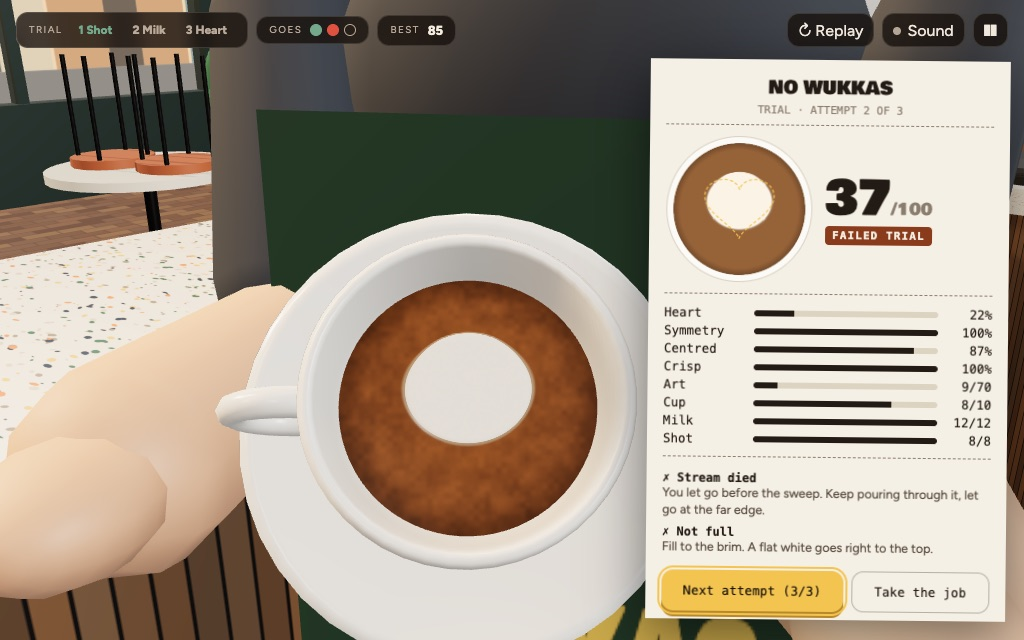
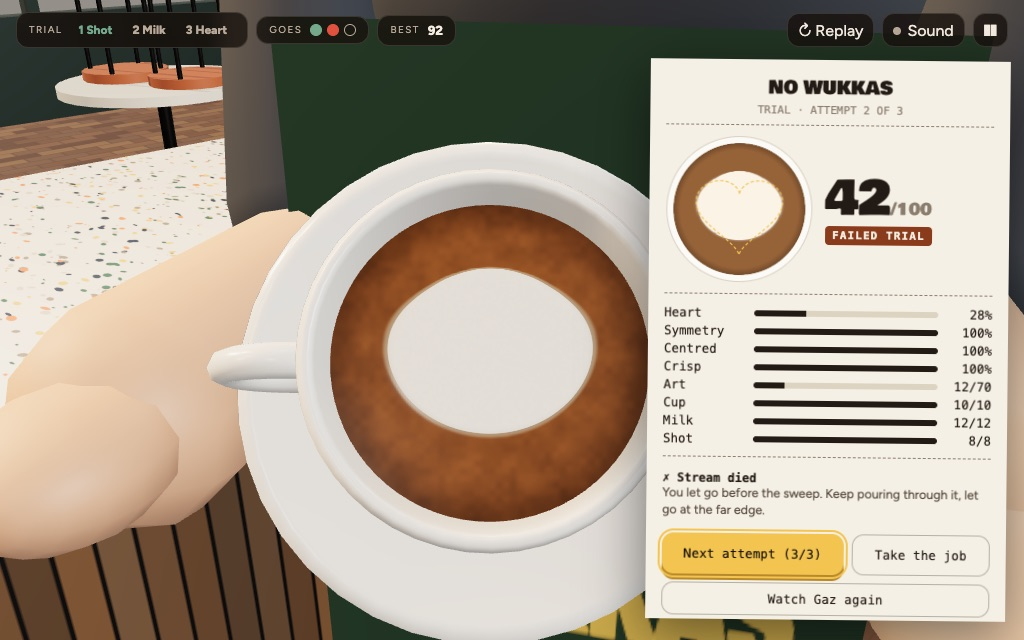
fix(lesson): "pull now" waits until the cup is as full as when Gaz starts his pull
Following only the on-screen text, Day 1's first pour scored a heart but came out underfilled
(0.74): the step-3 hint "Wide enough. Lift [2]…" fired as soon as the white covered 20% of the
surface (fill 0.71), while Gaz's demo starts its pull-through at fill 0.864. After the sweep the
cup can't be topped up, so it never reached the 0.85 "full" mark.

- demo: demoPullStart() / demoPullFill() read where OWNER_DEMO starts its pull-through (the jug
  first rising again after going low) and the cup fill then, from controlsAt and the pitcher
  (no hard-coded number; matches the full pour simulation exactly).
- coach: readyToPull(log, fill) = lobes done, not pulling yet, and fill >= demoPullFill().
- lesson: the hint fires on readyToPull and says the number: "Wide enough, cup ~85%. Lift [2],
  keep pouring and sweep forward."
- Test: a pour that follows the lesson (fill high, drop at the half-full hint, stay low, then the
  B1 held sweep from the moment the hint fires) scores faults = [] and "hired".

Hands-on repeat (Day 1, seed 7, real input via Playwright, by the text only): 92/100, hired,
faults = [] (was 85, underfilled).

diff --git a/tests/sim/latte.test.ts b/tests/sim/latte.test.ts
@@ -3,7 +3,15 @@ import { STEP } from '../../src/core/clock';
 import { artFaults, scoreAttempt } from '../../src/sim/attempt';
 import { scoreEspresso, createEspresso } from '../../src/sim/espresso';
 import { CELL, createPour, GRID, stepPour, surfacing } from '../../src/sim/latte/field';
-import { controlsAt, OWNER_DEMO, runTrack, type TrackKey } from '../../src/sim/latte/demo';
+import {
+  controlsAt,
+  demoPullFill,
+  demoPullStart,
+  OWNER_DEMO,
+  runTrack,
+  type TrackKey,
+} from '../../src/sim/latte/demo';
+import { createPourLog, readyToPull, trackPour, type PourLog } from '../../src/sim/latte/coach';
 import { heartTemplate, inHeart } from '../../src/sim/latte/heart';
 import {
   createPitcher,
@@ -261,6 +269,58 @@ describe('pull-through: the taught motion is the winning motion', () => {
     const r = pourTrack(late, 8.8);
     expect(r.faults).toContain('blob');
     expect(r.s.heartness).toBeLessThan(0.3);
+  });
+});
+
+describe('when the lesson says "pull now": as full as the cup is when Gaz starts his', () => {
+  it("is read from Gaz's demo, and matches the full pour simulation", () => {
+    const fill = demoPullFill();
+    expect(fill).toBeGreaterThan(0.84);
+    expect(fill).toBeLessThan(0.88);
+    expect(runTrack(OWNER_DEMO, SILKY_MILK, demoPullStart()).pour.fill).toBeCloseTo(fill, 9);
+  });
+
+  it('a wide white is not enough: the cup has to be that full too', () => {
+    const log = { ...createPourLog(), done: [true, true, true, false] as PourLog['done'], step: 3 };
+    expect(readyToPull(log, 0.71)).toBe(false); // Day 1 by the text, 2026-10-15: pulled here
+    expect(readyToPull(log, demoPullFill())).toBe(true);
+    expect(readyToPull({ ...log, pullStarted: true }, 0.9)).toBe(false);
+  });
+
+  it('following the lesson (drop at half full, pull when it says) ends in a heart and a full cup', () => {
+    const [HIGH, LIFT, LOW] = HEIGHT_PRESETS;
+    const pour = createPour();
+    const p = createPitcher();
+    p.y = -0.3;
+    const log = createPourLog();
+    const c = { targetX: 0, targetY: -0.3, targetHeight: HIGH as number, holding: false };
+    // The B1 held sweep, from the moment the hint fires: lift to [2], keep pouring, let go far.
+    const sweep: TrackKey[] = [
+      { t: 0, x: 0, y: -0.3, h: LOW, hold: true },
+      { t: 0.15, x: 0, y: -0.2, h: LIFT, hold: true },
+      { t: 0.6, x: 0, y: 0.85, h: LIFT, hold: false },
+      { t: 1.2, x: 0, y: 0.6, h: HIGH, hold: false },
+    ];
+    let hintAt = -1;
+    let idle = 0;
+    for (let i = 0; i < Math.round(20 / STEP); i++) {
+      const t = i * STEP;
+      if (hintAt >= 0) controlsAt(sweep, t - hintAt, c);
+      else {
+        c.holding = t >= 0.5; // "1 high … hold to pour"
+        if (log.done[0]) c.targetHeight = LOW; // "Half full. Drop right down now [3]."
+      }
+      stepPourFrame(pour, p, c, SILKY_MILK, STEP);
+      trackPour(log, pour, p);
+      if (hintAt < 0 && readyToPull(log, pour.fill) && pitcherFlow(p) > 0) hintAt = t;
+      // The pour ends as the trial's does: full and still for a beat.
+      idle = hintAt >= 0 && pitcherFlow(p) === 0 ? idle + STEP : 0;
+      if (pour.fill >= 0.88 && idle >= 1.1) break;
+    }
+    expect(hintAt).toBeGreaterThan(0);
+    const r = scoreAttempt(scorePattern(pour.foam), pour, scoreMilk(SILKY_MILK), perfectEspresso());
+    expect(r.faults).toEqual([]);
+    expect(r.band).toBe('hired');
   });
 });
 

diff --git a/src/sim/latte/demo.ts b/src/sim/latte/demo.ts
@@ -5,8 +5,16 @@
 import { STEP } from '../../core/clock';
 import type { MilkQuality } from '../milk';
 import type { PourStep } from './coach';
-import { createPour, type PourState } from './field';
-import { createPitcher, stepPourFrame, type PitcherControls, type PitcherState } from './pitcher';
+import { createPour, ESPRESSO_FILL, MAX_FLOW, type PourState } from './field';
+import {
+  createPitcher,
+  HEIGHT_PRESETS,
+  pitcherFlow,
+  stepPitcher,
+  stepPourFrame,
+  type PitcherControls,
+  type PitcherState,
+} from './pitcher';
 
 export interface TrackKey {
   t: number;
@@ -157,6 +165,53 @@ export function controlsAt(
   c.targetHeight = a.h + (b.h - a.h) * u;
   c.holding = a.hold;
   return c;
+}
+
+let pullStart = -1;
+let pullFill = -1;
+
+/** Where Gaz's pull-through starts in OWNER_DEMO: the first moment the jug rises again after
+ *  it has gone down low, and how full the cup is then. Read from the track (controlsAt and the
+ *  pitcher: the demo never pours outside the rim, so the cup fill is the milk that left the jug). */
+function findPull(): void {
+  if (pullStart >= 0) return;
+  const p = createPitcher();
+  const first = OWNER_DEMO[0];
+  if (first) {
+    p.x = first.x;
+    p.y = first.y;
+    p.height = first.h;
+  }
+  const c: PitcherControls = { targetX: 0, targetY: 0, targetHeight: 7, holding: false };
+  let fill = ESPRESSO_FILL;
+  let lowest = Infinity;
+  for (let i = 0; i < DEMO_STEPS; i++) {
+    const t = i * STEP;
+    controlsAt(OWNER_DEMO, t, c);
+    if (c.targetHeight < HEIGHT_PRESETS[1]) lowest = Math.min(lowest, c.targetHeight);
+    if (c.targetHeight > lowest + 0.05) {
+      pullStart = t;
+      break;
+    }
+    stepPitcher(p, c, STEP);
+    const out = Math.min(pitcherFlow(p) * MAX_FLOW * STEP, p.milk);
+    p.milk -= out;
+    fill += out;
+  }
+  pullFill = Math.min(1, fill);
+}
+
+/** Track time Gaz starts his pull-through. */
+export function demoPullStart(): number {
+  findPull();
+  return pullStart;
+}
+
+/** Cup fill when Gaz starts his pull-through: the lesson says "pull now" from here, so a player
+ *  following it isn't left with a cup that can't be topped up any more. */
+export function demoPullFill(): number {
+  findPull();
+  return pullFill;
 }
 
 /** Run a whole track headless. Used by tests and to sanity-check tuning. */

diff --git a/src/ui/lesson.ts b/src/ui/lesson.ts
@@ -3,7 +3,8 @@
 // trial and practice. Built once; per frame only classes, widths and short texts change.
 
 import { LESSON_HINT, STEP_TEXT } from '../data/coaching';
-import { POUR_STEPS, type PourLog } from '../sim/latte/coach';
+import { POUR_STEPS, readyToPull, type PourLog } from '../sim/latte/coach';
+import { demoPullFill } from '../sim/latte/demo';
 import { SURF_LOW, type PourState } from '../sim/latte/field';
 import {
   nearestPreset,
@@ -202,7 +203,8 @@ export function createLesson(parent: HTMLElement, touch: boolean, id: string): L
           h = LESSON_HINT.goLow;
         else if (log.step === 2 && flowing && p.height > SURF_LOW + 0.9)
           h = LESSON_HINT.tooHighToDraw;
-        else if (log.step === 3 && !log.pullStarted && flowing) h = LESSON_HINT.pullNow;
+        else if (readyToPull(log, pour.fill) && flowing)
+          h = LESSON_HINT.pullNow.replace('{n}', String(Math.round(demoPullFill() * 20) * 5));
         else if (log.step === 4) h = LESSON_HINT.done;
       }
       if (h !== hintText) {

diff --git a/src/sim/latte/coach.ts b/src/sim/latte/coach.ts
@@ -5,6 +5,7 @@
 
 import { clamp } from '../math';
 import { CELL, GRID, type PourState } from './field';
+import { demoPullFill } from './demo';
 import { pitcherFlow, type PitcherState } from './pitcher';
 import type { PatternScore } from './score';
 
@@ -142,6 +143,12 @@ export function trackPour(log: PourLog, pour: PourState, pitcher: PitcherState):
   let s = 0;
   while (s < 4 && d[s]) s++;
   log.step = s;
+}
+
+/** Time for step 4 ("pull now"): the white is wide enough, and the cup is as full as it is when
+ *  Gaz starts his own pull-through (pull earlier and the cup can't be topped up after). */
+export function readyToPull(log: PourLog, fill: number): boolean {
+  return log.step === 3 && !log.pullStarted && fill >= demoPullFill();
 }
 
 /** Mean spout height while drawing, cm (or -1 if the player never poured past half full). */

diff --git a/src/data/coaching.ts b/src/data/coaching.ts
@@ -44,7 +44,8 @@ export const LESSON_HINT = {
   tooLowEarly: 'Too early to go low: fill from up high first [1].',
   goLow: 'Half full. Drop right down now [3].',
   tooHighToDraw: 'Too high to draw: the foam is sinking. Lower [3].',
-  pullNow: 'Wide enough. Lift [2], keep pouring and sweep forward.',
+  /** {n}: the cup fill (%) when Gaz starts his own pull-through. */
+  pullNow: 'Wide enough, cup ~{n}%. Lift [2], keep pouring and sweep forward.',
   done: 'Done. Hands off and let it settle.',
 } as const;
 
